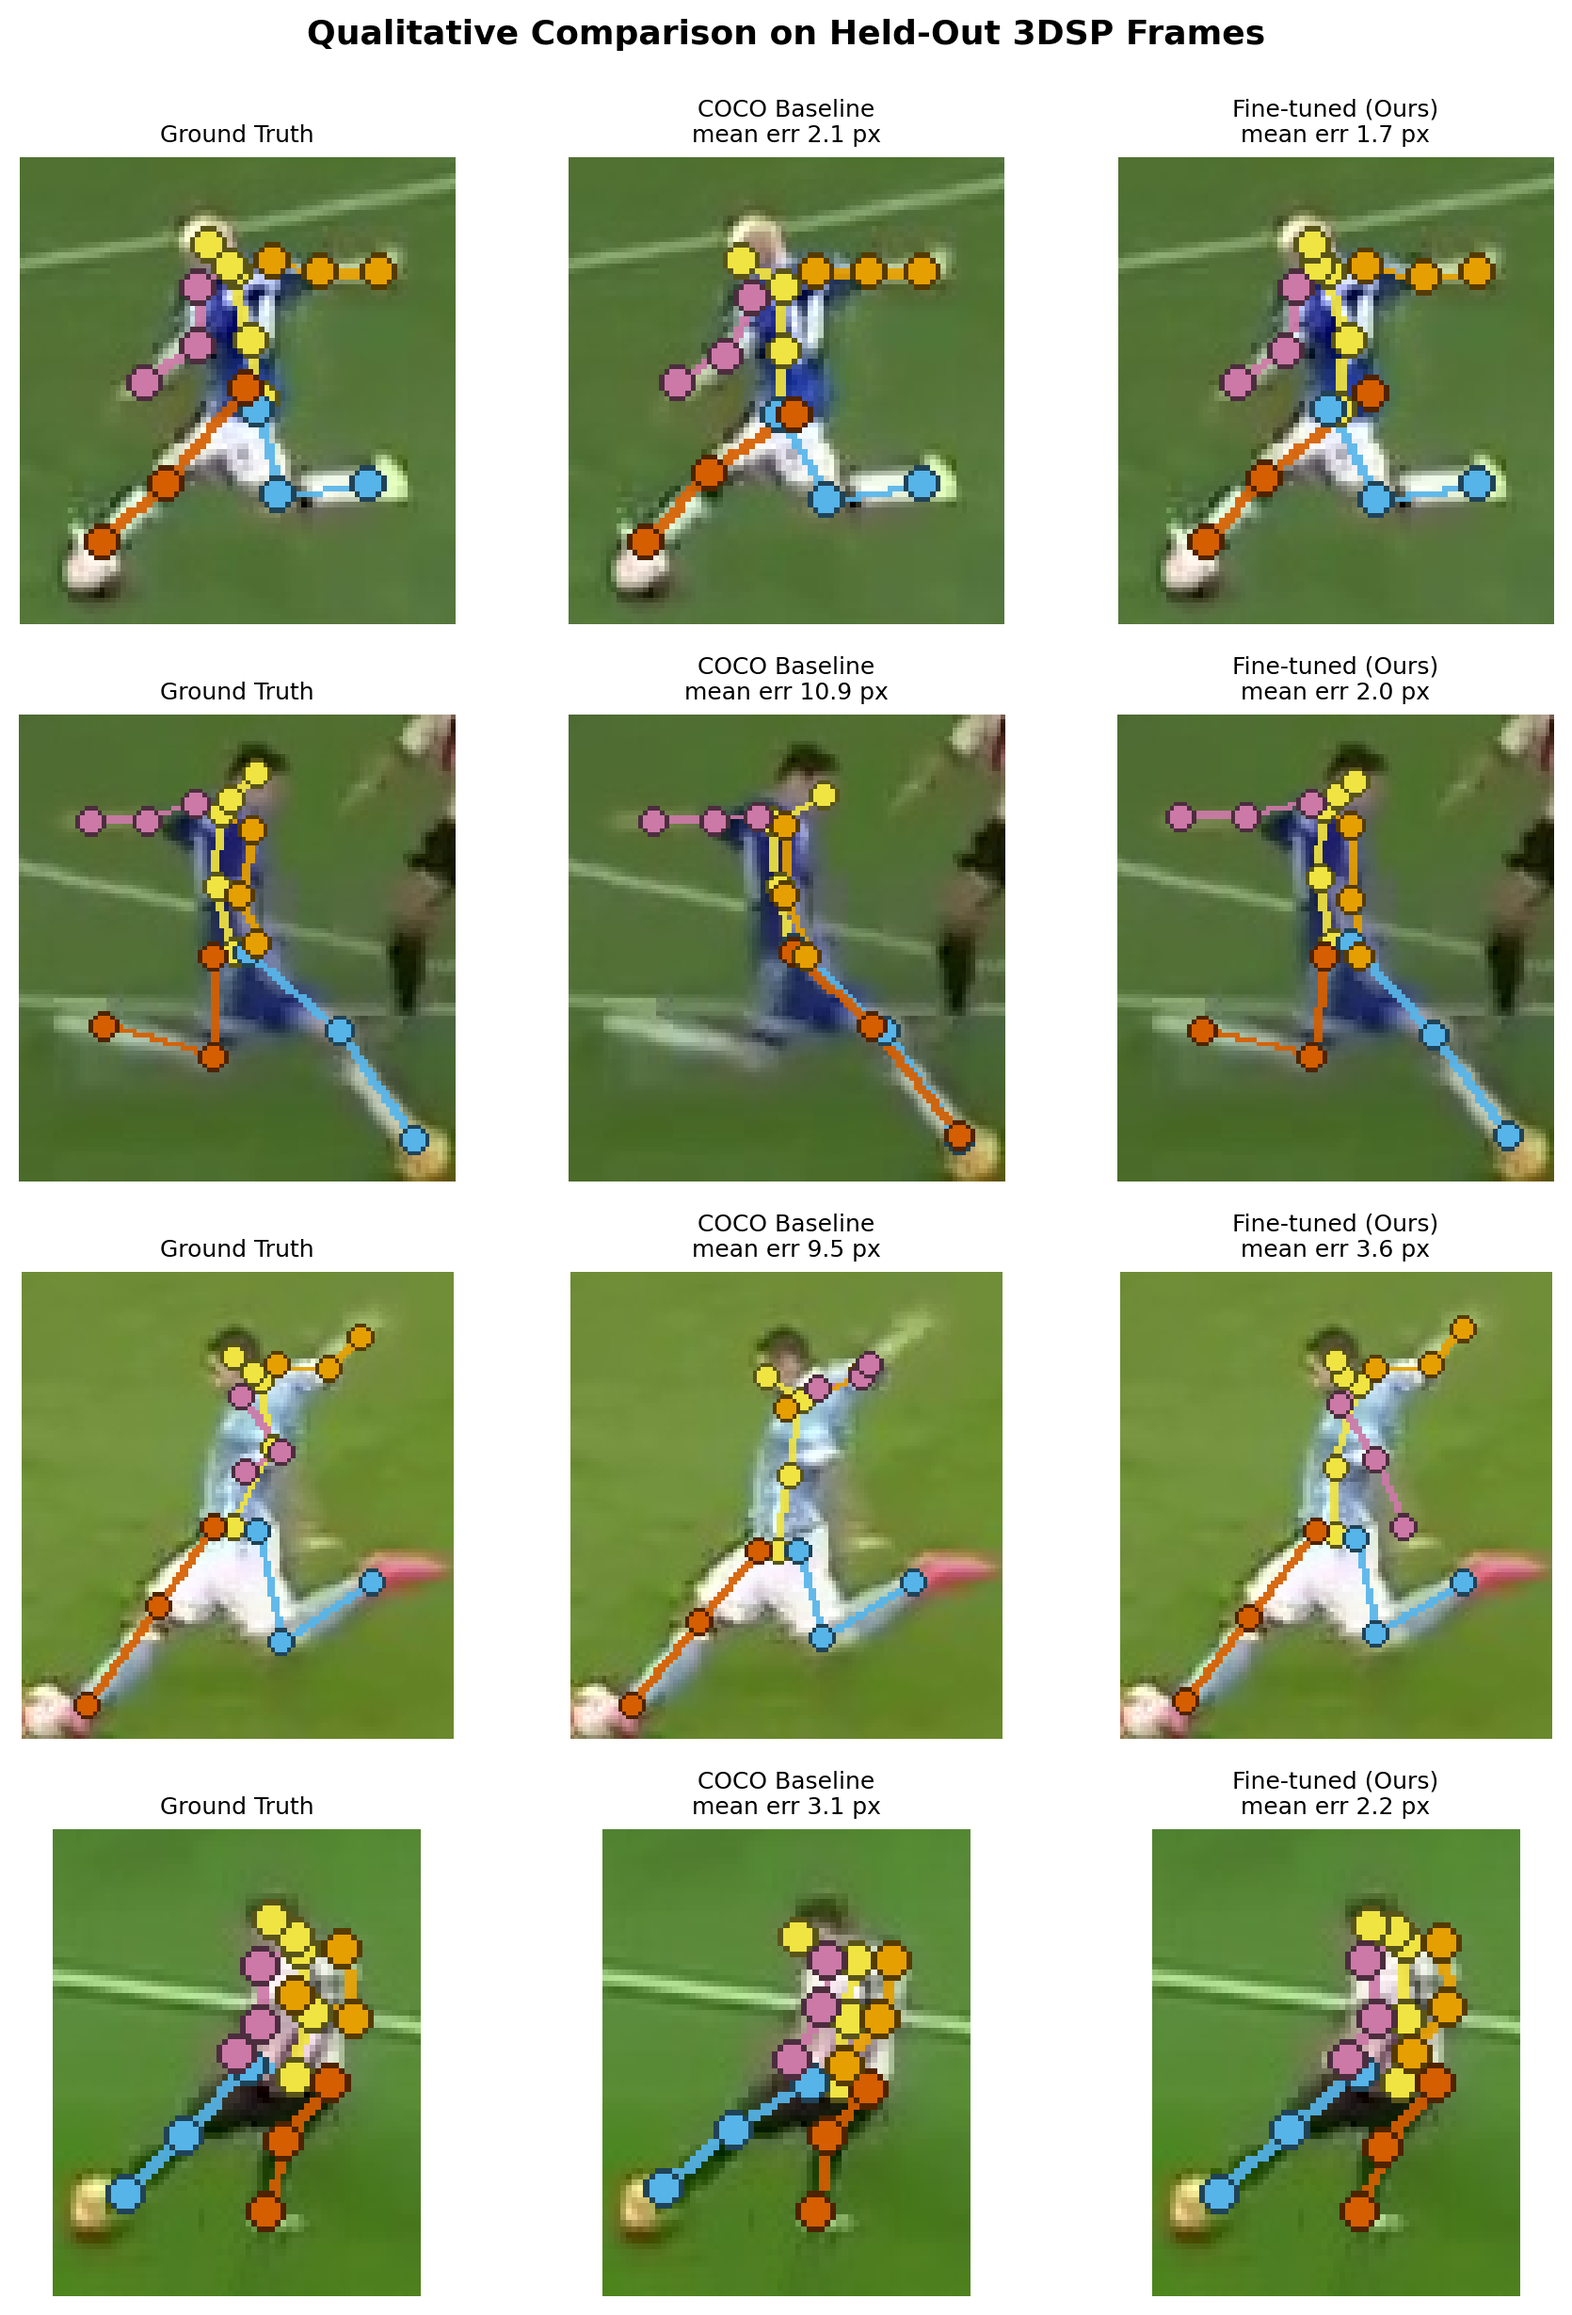
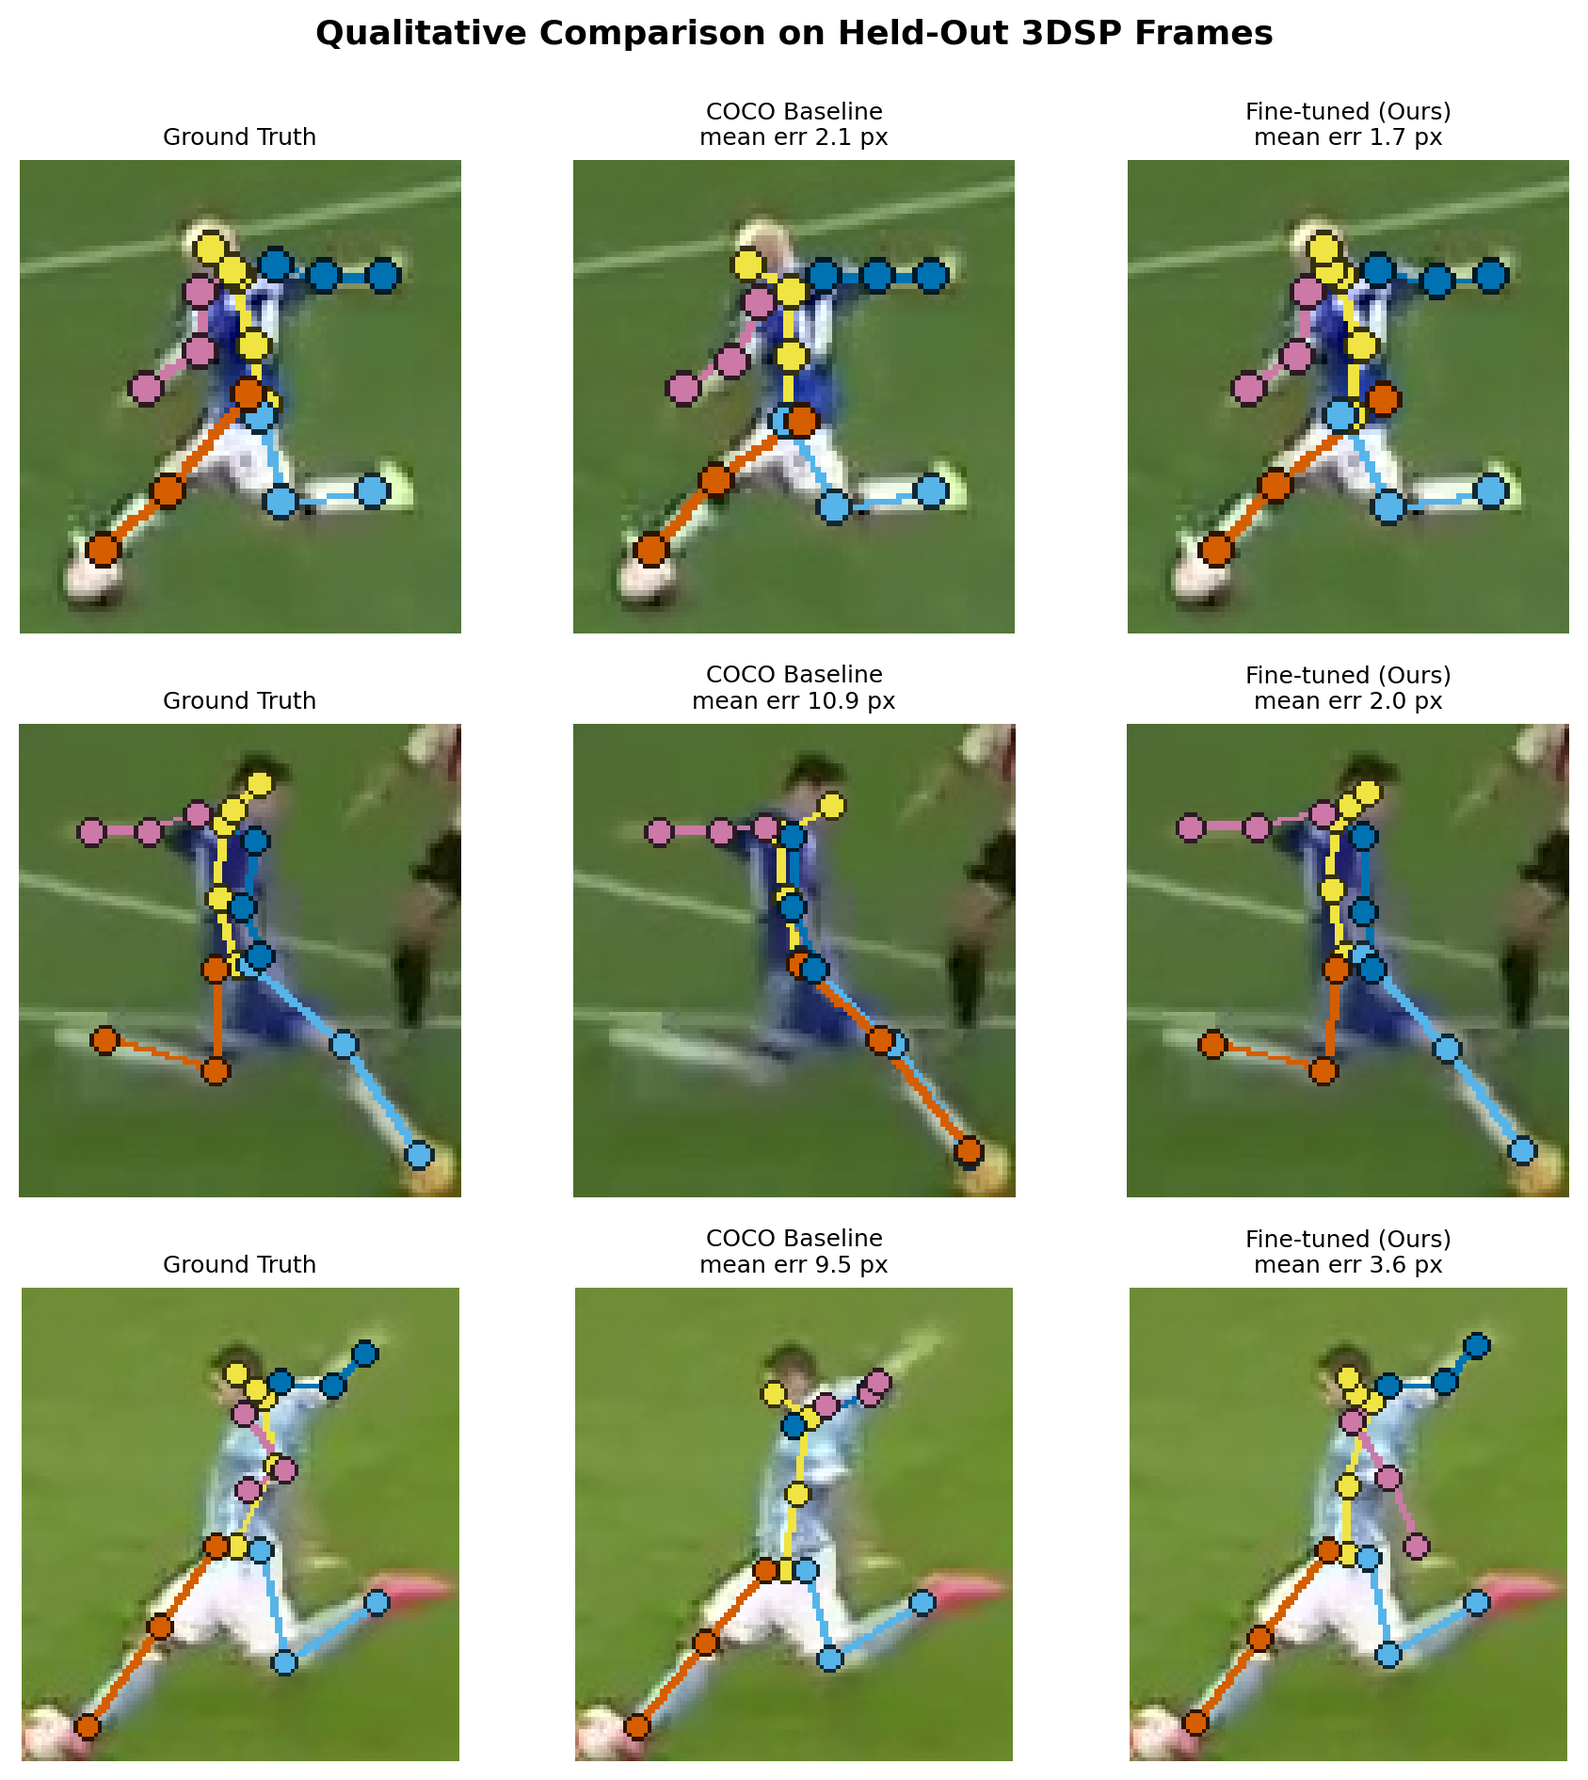
Update Visualization

diff --git a/configs/default.py b/configs/default.py
@@ -542,7 +542,7 @@ LIMBS: Tuple[Tuple[str, Tuple[Tuple[int, int], ...]], ...] = (
     ("#56B4E9", ((0, 1), (1, 2), (2, 3))),            # left leg
     ("#D55E00", ((0, 4), (4, 5), (5, 6))),            # right leg
     ("#CC79A7", ((8, 14), (14, 15), (15, 16))),       # left arm
-    ("#E69F00", ((8, 11), (11, 12), (12, 13))),       # right arm
+    ("#0072B2", ((8, 11), (11, 12), (12, 13))),       # right arm
 )
 
 KP_COLOR: Dict[int, str] = {
@@ -550,7 +550,7 @@ KP_COLOR: Dict[int, str] = {
     1: "#56B4E9", 2: "#56B4E9", 3: "#56B4E9",
     4: "#D55E00", 5: "#D55E00", 6: "#D55E00",
     14: "#CC79A7", 15: "#CC79A7", 16: "#CC79A7",
-    11: "#E69F00", 12: "#E69F00", 13: "#E69F00",
+    11: "#0072B2", 12: "#0072B2", 13: "#0072B2",
 }
 
 CHART_BLUE      = "#4C72B0"
